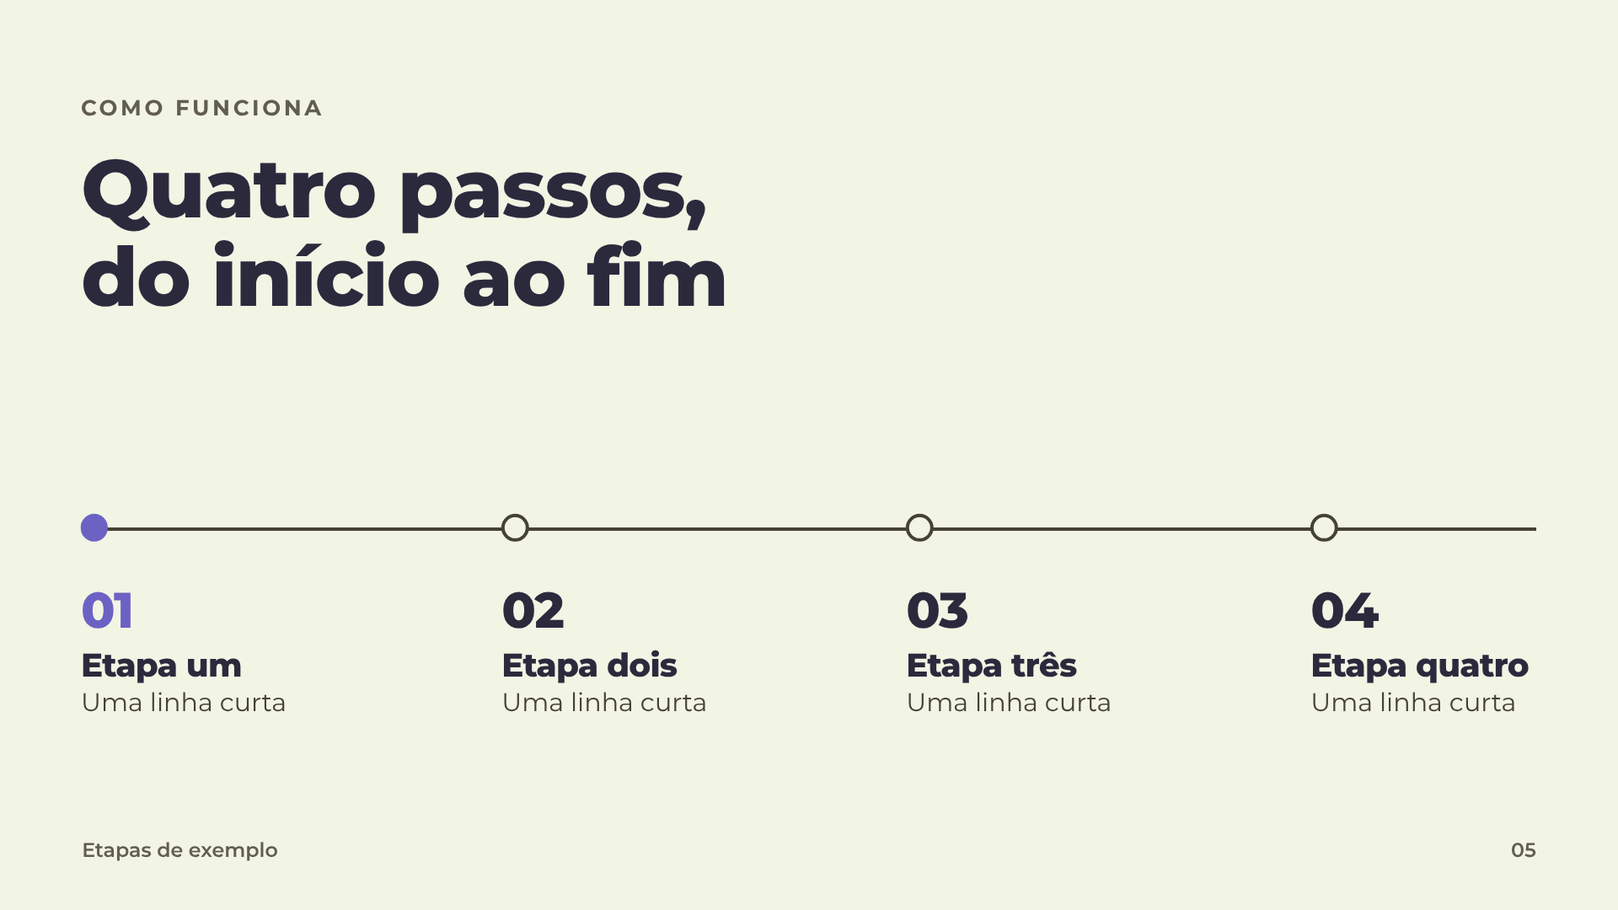
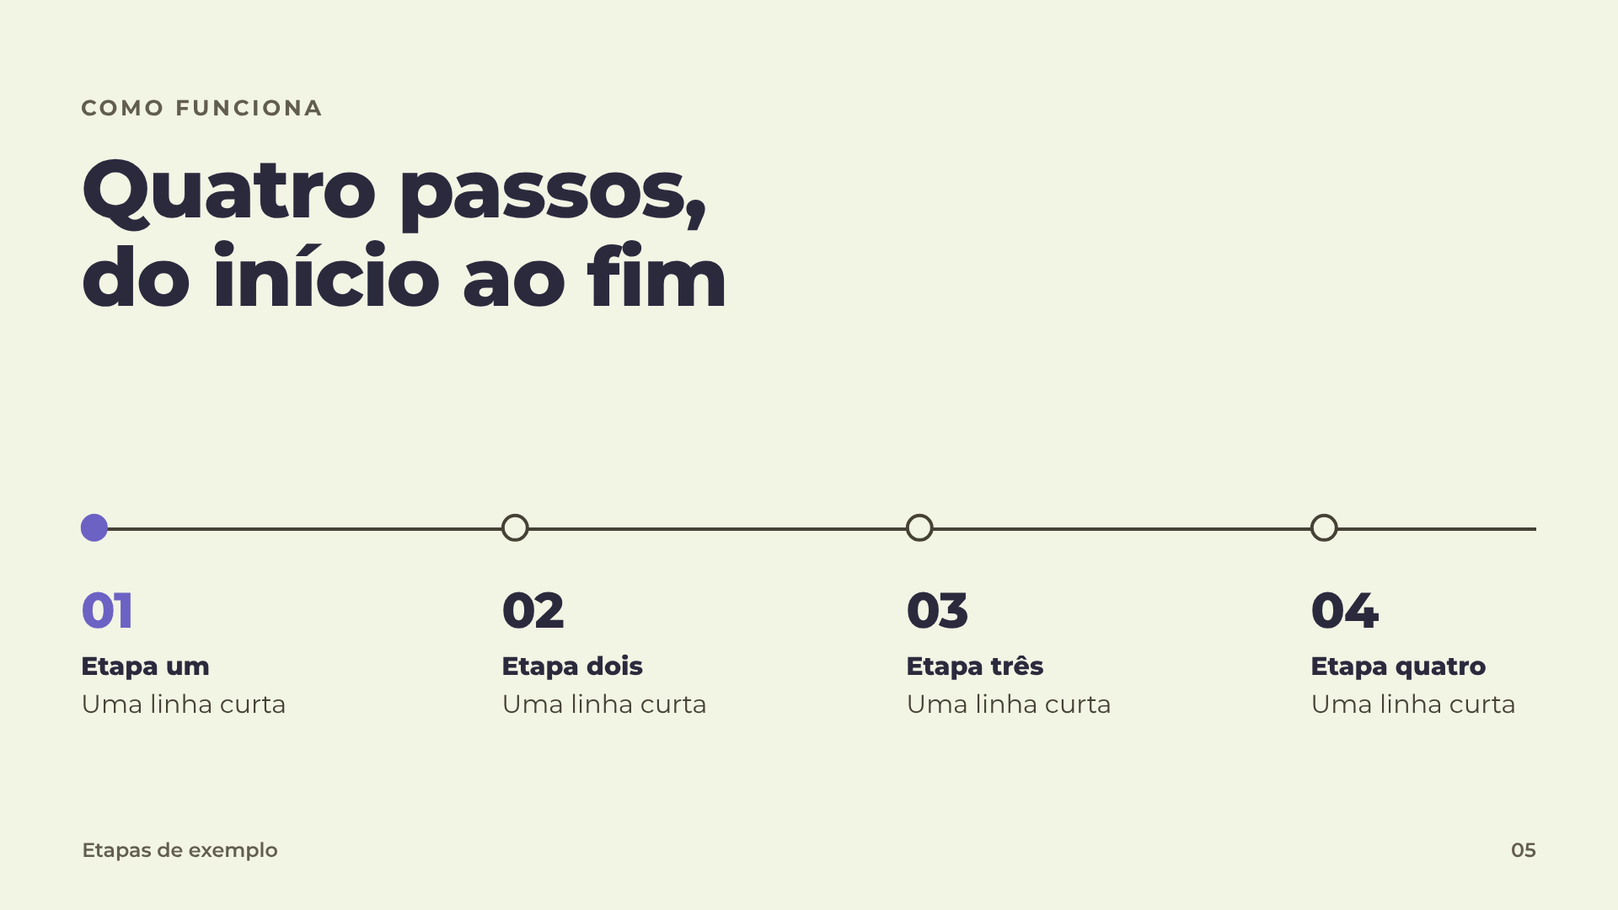
Fix the findings of the final review and add a mutation test for the validator
Claude-Session: https://claude.ai/code/session_01GoyHwdXjEJXTjCxK3apbTP

diff --git a/docs/composition/exemplars/src/pitch-deck.html b/docs/composition/exemplars/src/pitch-deck.html
@@ -62,10 +62,10 @@
   <div class="mark" style="left:calc(.31 * 1920px + 16px);top:calc(.58 * 1080px)"></div>
   <div class="mark" style="left:calc(.56 * 1920px + 16px);top:calc(.58 * 1080px)"></div>
   <div class="mark" style="left:calc(.81 * 1920px + 16px);top:calc(.58 * 1080px)"></div>
-  <div class="at" style="--x:.05;--y:.64;--w:.2"><div class="h2 accent">01</div><p class="h2" style="font-size:calc(var(--S) * .036);margin-top:10px">Etapa um</p><p class="body">Uma linha curta</p></div>
-  <div class="at" style="--x:.31;--y:.64;--w:.2"><div class="h2">02</div><p class="h2" style="font-size:calc(var(--S) * .036);margin-top:10px">Etapa dois</p><p class="body">Uma linha curta</p></div>
-  <div class="at" style="--x:.56;--y:.64;--w:.2"><div class="h2">03</div><p class="h2" style="font-size:calc(var(--S) * .036);margin-top:10px">Etapa três</p><p class="body">Uma linha curta</p></div>
-  <div class="at" style="--x:.81;--y:.64;--w:.15"><div class="h2">04</div><p class="h2" style="font-size:calc(var(--S) * .036);margin-top:10px">Etapa quatro</p><p class="body">Uma linha curta</p></div>
+  <div class="at" style="--x:.05;--y:.64;--w:.2"><div class="h2 accent">01</div><p class="body" style="font-weight:var(--rse-font-weight-extrabold);color:var(--rse-color-text-heading);margin-top:10px">Etapa um</p><p class="body">Uma linha curta</p></div>
+  <div class="at" style="--x:.31;--y:.64;--w:.2"><div class="h2">02</div><p class="body" style="font-weight:var(--rse-font-weight-extrabold);color:var(--rse-color-text-heading);margin-top:10px">Etapa dois</p><p class="body">Uma linha curta</p></div>
+  <div class="at" style="--x:.56;--y:.64;--w:.2"><div class="h2">03</div><p class="body" style="font-weight:var(--rse-font-weight-extrabold);color:var(--rse-color-text-heading);margin-top:10px">Etapa três</p><p class="body">Uma linha curta</p></div>
+  <div class="at" style="--x:.81;--y:.64;--w:.15"><div class="h2">04</div><p class="body" style="font-weight:var(--rse-font-weight-extrabold);color:var(--rse-color-text-heading);margin-top:10px">Etapa quatro</p><p class="body">Uma linha curta</p></div>
   <div class="folio"><span>Etapas de exemplo</span><span>05</span></div>
 </section>
 

diff --git a/DESIGN.md b/DESIGN.md
@@ -28,6 +28,7 @@ that are easiest to break by accident in a non-web piece:
 
 - Colours come from the palette in [brand.json](brand.json). On artwork you may use the `--rse-brand-*` palette directly (`AGENTS.md` keeps it off web components). Flat fields only: no gradients, no textures, no effects.
 - Montserrat only, weights 400–900. Headings 800, tight tracking. Eyebrows 700 uppercase, wide tracking. That is the only uppercase.
+- The brand purple is `--rse-color-primary`, never the mid `--rse-brand-purple` (3.3:1 with white).
 - The selo and the cube motif are official artwork in [assets/](assets/): never redraw, rotate, stretch or recolour outside the sanctioned combinations. One motif per composition. Wordmark files: purple on cream or white, white on purple, indigo or ink, black on the light accents.
 - No emoji, no hand-drawn icons, no stock or generated photography. Use a labelled placeholder that says what shot is needed.
 - Never invent Sesc facts (counts, addresses, fees, dates, quotes). Placeholders look like placeholders (`000`).
@@ -46,11 +47,14 @@ any unit.
 | --- | --- |
 | deck | [archetypes](docs/composition/archetypes.md), [modules](docs/composition/modules.md), [formats](docs/composition/formats.json), [exemplar](docs/composition/exemplars/institutional-deck.md) |
 | pitch | [archetypes](docs/composition/archetypes.md), [modules](docs/composition/modules.md), [formats](docs/composition/formats.json), [exemplar](docs/composition/exemplars/pitch-deck.md) |
-| report | [archetypes](docs/composition/archetypes.md), [modules](docs/composition/modules.md), [formats](docs/composition/formats.json), [exemplar](docs/composition/exemplars/institutional-deck.md) |
+| report | [archetypes](docs/composition/archetypes.md), [modules](docs/composition/modules.md), [formats](docs/composition/formats.json), [specimen sheet](docs/composition/exemplars/specimen-sheet.md) |
 | poster | [archetypes](docs/composition/archetypes.md), [formats](docs/composition/formats.json), [exemplar](docs/composition/exemplars/poster-a3.md), [patterns](assets/patterns/) |
 | social | [archetypes](docs/composition/archetypes.md), [formats](docs/composition/formats.json), [exemplar](docs/composition/exemplars/social-card.md), [motifs](assets/motifs/) |
 | one-pager | [archetypes](docs/composition/archetypes.md), [modules](docs/composition/modules.md), [formats](docs/composition/formats.json), [specimen sheet](docs/composition/exemplars/specimen-sheet.md) |
 | web page | [AGENTS.md](AGENTS.md#building-a-page), [recipes](docs/recipes.md), [components](docs/components.md) |
+
+No report exemplar exists yet: build the cover on the `report-cover` format and the pages on `print-a4`,
+from the same modules and archetypes the specimen sheet shows.
 
 The [specimen sheet](docs/composition/exemplars/specimen-sheet.md) shows every module and archetype on one image: look at it
 before you design anything. The exemplars are the quality bar, and each has a written spec for
@@ -65,18 +69,21 @@ data; it does not check your output. Check your output against the rubric.
 ## Fonts and fallbacks
 
 Montserrat ships as a variable font in [assets/fonts/](assets/fonts/) (`Montserrat-Variable.woff2`,
-weights 100–900). A browser uses that file directly. Most other stacks need a TTF: install
-Montserrat from Google Fonts (SIL Open Font License), or convert the shipped file, which is what a
-Python tool needs. With `pip install fonttools brotli`:
+weights 100–900). A browser uses that file directly. Most other stacks need static TTFs: install
+Montserrat from Google Fonts (SIL Open Font License), or make static weights from the shipped file.
+With `pip install fonttools brotli`:
 
 ```python
 from fontTools.ttLib import TTFont
-f = TTFont('assets/fonts/Montserrat-Variable.woff2'); f.flavor = None; f.save('Montserrat-Variable.ttf')
-# Pillow: font = ImageFont.truetype('Montserrat-Variable.ttf', size); font.set_variation_by_axes([800])
+from fontTools.varLib.instancer import instantiateVariableFont
+for weight, name in [(800, 'ExtraBold'), (700, 'Bold'), (400, 'Regular')]:
+    f = TTFont('assets/fonts/Montserrat-Variable.woff2'); f.flavor = None
+    instantiateVariableFont(f, {'wght': weight}, inplace=True); f.save(f'Montserrat-{name}.ttf')
 ```
 
-The last line picks the weight: 800 for headings, 700 for eyebrows, 400 for body. Embed or install the
-font wherever your stack allows. If your stack cannot embed it
+Use ExtraBold for headings, Bold for eyebrows and Regular for body. Do not use the unconverted variable
+file in a tool that ignores font variations: its default weight is 100, Thin, which is below the
+brand's floor of 400. Embed or install the fonts wherever your stack allows. If your stack cannot embed it
 (some PPTX and Figma paths), use Montserrat if it is installed on the viewer's machine, and
 otherwise a geometric sans with the same proportions, and **tell the user** the piece uses a
 stand-in so they can fix it. Never fall back to a serif or a condensed face.
@@ -94,7 +101,8 @@ exemplars do), so a printout cannot pass for the real thing.
 The repo ships no export tool; use what your stack has. A browser can screenshot a page or print it to
 PDF with one canvas per page (`@page` set to the canvas size). From Python, [docs/examples/social_post.py](docs/examples/social_post.py)
 writes an SVG, which `rsvg-convert`, Inkscape or `cairosvg` turn into a PNG; the official logos and
-motifs are plain polygons and paths, so you can also draw them yourself. Whatever you export, look at
+motifs are plain polygons and paths, so a stack with no SVG support can rasterise that path data
+unchanged. Whatever you export, look at
 the result before you hand it over.
 
 ## When asked for something the brand forbids

diff --git a/docs/composition/principles.md b/docs/composition/principles.md
@@ -22,14 +22,19 @@ How every piece for the Rede looks, whatever the stack or format. Numbers live i
 6. **The cube motif appears once, large, and cropped.** It bleeds off an edge at a scale that makes it
    architecture, not ornament, and it never sits behind text that must be read. The supplied cubes
    come in green, blue and pink: put a cube of one family on a field of another (green on purple or
-   cream, pink on blue or green, blue on orange), never on its own hue. *Generic:* small
+   cream, pink on blue, green or indigo, blue on orange), never on its own hue. The `BrandMotif`
+   component can derive purple, orange and yellow; say so when you use them. A composition is one
+   canvas, so a deck may use a different construction on each. *Generic:* small
    cubes scattered as bullets or dividers.
 7. **One hue per composition.** The page is cream (`--rse-color-surface-page` / `--rse-brand-cream`)
-   or white. A single band or accent takes one palette hue: brand purple or indigo with white text,
-   or a light or mid accent with ink text (`--rse-brand-ink`). Use the paired tint and its ink
+   or white. A single band or field takes one palette hue: the brand purple (`--rse-color-primary`)
+   or indigo with white text, or a light or mid accent with ink text (`--rse-brand-ink`). The
+   brand purple used as text or line colour (a big figure, a rule, a step number) is the brand
+   itself and does not count as a second hue. Use the paired tint and its ink
    (`--rse-color-tint-<hue>` with `-ink`) for small labels. These pairings are measured and gated by
-   the repo (ink on the light accents is 4.8–10:1). Never white on an accent, never a `-dark`
-   accent as a band. *Generic:* a rainbow of six hues across one slide.
+   the repo (ink on the light accents is 4.8–10:1). Never white on an accent, never the mid
+   `--rse-brand-purple` or any other `-dark` accent as a band (the primary purple is the one dark tone
+   that works). *Generic:* a rainbow of six hues across one slide.
 8. **Flat colour, honest edges.** Rectangles with square or token-radius corners, hairline rules, no
    shadows beyond the system's, no gradients, no textures. *Generic:* gradient banners and glow.
 9. **Numbers are the picture.** A figure set at display size, with a short label, is stronger than a
@@ -44,8 +49,9 @@ How every piece for the Rede looks, whatever the stack or format. Numbers live i
 12. **Set headlines tight, body loose.** Headlines at line-height 1.04–1.1 with tracking −0.02em
     (`--rse-letter-spacing-tight`); body at 1.5; eyebrows at +0.14em (`--rse-letter-spacing-eyebrow`).
     *Generic:* default line-height everywhere.
-13. **Cut copy before shrinking type.** If text overflows, shorten it to the format's
-    `maxWords` and `maxHeadlineChars`; do not reduce the type below `minText`.
+13. **Cut copy before shrinking type.** If text overflows, shorten it to the format's `maxWords` and
+    to `maxHeadlineChars` (headline at h1) or `maxDisplayChars` (headline at display), which hold about
+    three lines; do not reduce the type below `minText`.
 
 ## Reading order test
 

diff --git a/docs/composition/exemplars/institutional-deck.md b/docs/composition/exemplars/institutional-deck.md
@@ -14,7 +14,7 @@ close.
 - **Whitespace is a feature.** Most slides leave more than half the canvas empty. The pillars slide
   keeps its three columns low on the page so the headline has air above it.
 - **Colour changes the rhythm, not the story.** Cream, brand purple, indigo, yellow and a purple tint
-  alternate; each slide uses exactly one of them, always with the text colour its pairing allows:
+  alternate; each slide has one background hue (the closing slide adds one yellow band to cream), always with the text colour its pairing allows:
   white on purple and indigo, ink on yellow, tint-ink on the tint.
 - **The cube is architecture.** It appears twice, never together: large on the cover and cropped by
   the top-right corner on the section divider, with the text well clear of it.
@@ -41,7 +41,7 @@ close.
 
 - Format `slide-16x9`: 1920 × 1080, margin 9% of the short side (97 px), twelve columns.
 - Type at the format's fractions: display 0.14, h1 0.09, h2 0.055, body 0.028, caption 0.022.
-- Every slide is under 40 words and every headline under 60 characters (the validator checks it).
+- Every slide is under 40 words, every h1 headline under 60 characters and every display headline under 54 (the validator checks all three).
 
 ## Rubric
 
@@ -51,8 +51,8 @@ close.
 - R4: yes — at least a third of every canvas is empty and nothing sits inside the 5% safe margin
 - R5: yes — white on purple and indigo, ink on yellow and the tint-ink on the tint are all gated pairs; no white on an accent
 - R6: yes — one cube per slide where used (cover, divider), cropped, clear of the text
-- R7: yes — one band or accent hue per slide
-- R8: yes — each slide is at most 40 words, each headline at most 60 characters, nothing below 22 px (0.022 of the short side, above the 0.02 minimum)
+- R7: yes — one band or field hue per slide; the brand purple as text or line colour (slide 10's date, the pillar numbers) is the brand itself, not a second hue
+- R8: yes — each slide is at most 40 words, each headline within the format's limit, nothing below about 24 px (0.022 of the short side, above the 0.02 minimum)
 - R9: yes — flat fields, hairlines and the official artwork only
 - R10: yes — figures are `000`/`0000`/`00/00`, imagery is labelled slots and the placeholders are listed below
 - R11: yes — pt-BR, sentence case, no emoji, Montserrat only

diff --git a/docs/composition/exemplars/pitch-deck.md b/docs/composition/exemplars/pitch-deck.md
@@ -12,7 +12,7 @@ archetypes are new (process, evidence, data-table, contact).
 
 - **A pitch is an argument.** Each slide advances one step of it, and the two statement slides
   (problem, solution) sit on either side of the numbers so the claim and the answer are never
-  buried. The solution headline takes the brand purple, the one place colour carries meaning.
+  buried. The solution headline takes the brand purple, which marks the answer.
 - **The number is the picture.** "Por que agora" is a single figure at about 450 px with a label,
   not a chart; the chart appears only where the point is a trend, with direct labels and one series.
 - **One light hue.** Blue-light carries the cover, the "why now" figure and the closing band, always
@@ -38,7 +38,7 @@ archetypes are new (process, evidence, data-table, contact).
 
 - Format `slide-16x9`: 1920 × 1080, margin 97 px, twelve columns; type at display 0.14, h1 0.09,
   h2 0.055, body 0.028, caption 0.022 of the short side.
-- Every slide is under 40 words and every headline under 60 characters (checked by
+- Every slide is under 40 words, every h1 headline under 60 characters and every display headline under 54 (checked by
   `scripts/check-composition.mjs`).
 - One cube, on the cover, in pink on blue; no other slide has one.
 
@@ -50,8 +50,8 @@ archetypes are new (process, evidence, data-table, contact).
 - R4: yes — at least a third of every canvas is empty and everything sits inside the safe margin
 - R5: yes — ink on blue-light and cream, white-free accents, purple headline on cream is large text above 4.5:1
 - R6: yes — one cube, on the cover, cropped, clear of the headline
-- R7: yes — blue-light is the only band hue in the deck
-- R8: yes — at most 40 words and 60-character headlines per slide, nothing below 24 px
+- R7: yes — blue-light is the only band hue in the deck; the brand purple as text, rule or marker colour is the brand itself, not a second hue
+- R8: yes — at most 40 words and headlines within the format's limits on every slide, nothing below about 24 px
 - R9: yes — flat fields, hairlines and the official cube only
 - R10: yes — every figure is `00`/`000`/`00/00`, imagery is a labelled slot, placeholders are listed below
 - R11: yes — pt-BR, sentence case, no emoji, Montserrat only

diff --git a/docs/composition/exemplars/poster-a3.md b/docs/composition/exemplars/poster-a3.md
@@ -20,18 +20,18 @@ an A3 sheet, 297 × 420 mm). Source: [src/poster-a3.html](src/poster-a3.html). F
 
 ## Spec
 
-- Format `print-a3`: margin 8% of the short side (119 px), six columns.
+- Format `print-a3`: margin 8% of the short side (119 px), twelve columns, bleed 0.01 (3 mm, 15 px).
 - Type: display 0.12, h1 0.07, h2 0.04, body 0.02, caption 0.015 of the short side.
-- Under 60 words (it has about 16) and a headline under 50 characters (it has 30).
+- Under 60 words (it has about 16) and a display headline under 38 characters (it has 30).
 - Archetype: `cover`. One motif: `assets/motifs/cube-cube.svg`, official fills.
-- Print at 100% with background graphics on. For A4 reuse the same fractions on 210 mm.
+- This PNG is the trimmed size. For a print file extend the purple band and the cube 15 px past each edge, so a cut never leaves a white sliver. Print at 100% with background graphics on. For A4 reuse the same fractions on 210 mm.
 
 ## Rubric
 
 - R1: yes — the slogan reads first and the wordmark says who it is from
 - R2: yes — the headline is about 178 px against 30 px body copy, close to 6 to 1
 - R3: yes — one 119 px left margin; headline, deadline and address share it
-- R4: yes — more than a third of the sheet is empty, and all text is inside the safe area
+- R4: yes — more than a third of the sheet is empty; the text stays out of the safe-area band and only the band and the cube bleed into it
 - R5: yes — ink on cream and white on brand purple, both gated pairs
 - R6: yes — one cube, cropped, clear of all text
 - R7: yes — one band, brand purple, with white text

diff --git a/docs/composition/acceptance.md b/docs/composition/acceptance.md
@@ -36,7 +36,7 @@ rendering. The constraint was mine, to test the claim that the layer does not de
 **Stack the agent chose:** Python and Pillow, with a rasteriser the agent wrote for the logo and
 cube SVGs (no SVG library was installed).
 
-**Result:** a 1080 × 1350 PNG that holds up: ink on orange-light, official wordmark and cube-hollow
+**Result:** a 1080 × 1350 PNG that is on brand apart from the font: ink on orange-light, official wordmark and cube-hollow
 unmodified, headline at the format's size, everything inside the safe area, one cube cropped by the
 corner, placeholders flagged. One rubric item is only partly met: R11. The agent could not read the shipped WOFF2, used Inter as a
 stand-in and said so, which `DESIGN.md` and R11 allow, but the card is not set in Montserrat and its
@@ -64,4 +64,6 @@ headline wraps differently from the exemplar.
   hard-codes some sizes. It is existing code outside this change.
 - Run 1's agent did not run the repo's own check, and neither agent could measure contrast. Both are
   expected for a URL-only consumer: the rubric is meant to be applied by eye and by count.
+- The fixes in the table above were applied after the runs and not re-run with a fresh agent; only
+  the font recipe was checked by hand (it renders real Montserrat in Pillow).
 - Two runs are a small sample. The next real use of the layer is the better test.

diff --git a/docs/composition/modules.md b/docs/composition/modules.md
@@ -11,7 +11,7 @@ The eyebrow (Bold, uppercase, `eyebrow` size, `--rse-color-text-muted`) above an
 (`h1`, or `display` on a cover) in `--rse-color-text-heading`, with tight tracking and at most one
 line of support at `h2`–`body`. It is the first thing read on every canvas.
 Variants: stacked, oversized, numbered
-Fails when: the headline exceeds the format's `maxHeadlineChars`, runs past three lines, is centred
+Fails when: the headline exceeds the format's `maxHeadlineChars` (at h1) or `maxDisplayChars` (at display), runs past three lines, is centred
 on a multi-line block, or the eyebrow is not the only uppercase on the canvas.
 
 ## M-bignumber
@@ -85,9 +85,9 @@ used as a band.
 
 ## M-folio
 The quiet frame: page number and section at `caption`, the selo or wordmark in one corner, a source
-line where figures appear. It sits inside the format's `safeArea`.
+line where figures appear. It stays outside the format's `safeArea` band.
 Variants: minimal, sectioned, sourced
-Fails when: it is larger than `caption` size, the selo is below its minimum size (45 mm print,
+Fails when: it enters the `safeArea` band, it is larger than `caption` size, the selo is below its minimum size (45 mm print,
 150 px screen), it breaks the selo's clearspace, or it sits beside the Sesc signature.
 
 ## M-imageslot

diff --git a/docs/composition/archetypes.md b/docs/composition/archetypes.md
@@ -2,7 +2,7 @@
 
 An archetype is a composition of [modules](modules.md) on a grid. **Grid** gives regions as
 fractions of the canvas width × height, inside the format's `margin` (written *m*) and on its
-`gridColumns`. **Colour** names tokens from [brand.json](../../brand.json); *page* is
+`gridColumns`, which is twelve on every format. **Colour** names tokens from [brand.json](../../brand.json); *page* is
 `--rse-color-surface-page` (cream) and *band* is any one palette hue with ink text, or brand
 purple / indigo with white text. Nothing here is tied to a stack: translate the regions into
 whatever your tool uses.
@@ -116,6 +116,6 @@ Fails when: there are two asks, or the action has no concrete next step (a date,
 ## A-contact
 Who to talk to, and where.
 Modules: headline, list, folio
-Grid: headline columns 1–6 (y 0.25–0.45); contacts in columns 7–12 as a ruled list (y 0.25–0.75); selo at the bottom left with its clearspace.
+Grid: headline columns 1–6 (y 0.25–0.45); contacts in columns 7–12 as a ruled list (y 0.25–0.75); selo at the bottom left with its clearspace (a set may carry it on the cover and the closing canvases only).
 Colour: page.
 Fails when: the details are invented rather than flagged placeholders, or the Sesc signature sits next to the selo.

diff --git a/CHANGELOG.md b/CHANGELOG.md
@@ -19,9 +19,12 @@ a print pipeline), can now make non-web artwork that looks like the Rede.
   and a written spec and rubric result for agents that cannot see images.
 - **`brand.json`** gains `formats` and `composition`.
 - **`npm run check`** now runs `scripts/check-composition.mjs`: format invariants (scale jump of at
-  least 3:1, text above the minimum, safe area inside the margin), cross-references between the
-  docs, and the exemplars' own limits (words, headline length, one motif, no raw colour, no
-  gradient, no emoji). `scripts/render-exemplars.mjs` re-renders the images (author tool).
+  least 3:1, text above the minimum, safe area inside the margin, twelve columns, a print bleed),
+  cross-references between the docs including anchors, and the exemplars' own limits (words,
+  headline length at h1 and at display size, type roles, one motif, no raw colour, no gradient, no
+  emoji, `exemplar.css` in step with `formats.json`). `scripts/test-composition.mjs` plants 22 defects
+  in a scratch copy and requires the validator to catch each one. `scripts/render-exemplars.mjs`
+  re-renders the images (author tool).
 - `templates/institutional-deck/` is now labelled a working starter; the exemplars are the quality
   reference.
 

diff --git a/AGENTS.md b/AGENTS.md
@@ -120,7 +120,7 @@ docs/known-gaps.md        Open caveats to say out loud.
 docs/roadmap/             The assessment and the plan; read before improving the system itself.
 docs/                     Generated component + token references, recipes, authoring, QA checklist.
 scripts/                  build-tokens, build-icons, build-motifs, build-bundle, build-brand, gen-docs,
-                          build-showcase, check-ds, check-composition, render-exemplars (author tool),
+                          build-showcase, check-ds, check-composition (+ test-composition), render-exemplars (author tool),
                           audit (+ contrast-pairs), pack-static.
 rse.manifest.json         Machine index: components, the showcase card, templates, tokens, themes, fonts.
 assets/logos/             Official vector lockups (Rede + Sab.IA); originals in source/. Read its README.

diff --git a/docs/composition/exemplars/specimen-sheet.md b/docs/composition/exemplars/specimen-sheet.md
@@ -42,7 +42,7 @@ at a third of their size, and the 12 [modules](../modules.md) beneath them. Sour
 - R9: yes — flat fields and hairlines only
 - R10: yes — all figures are `000`/`0000`, every image slot names the shot, and the legend says so
 - R11: yes — copy is pt-BR sentence case, no emoji, Montserrat throughout
-- R12: yes — the wordmark appears only inside the cover and contact thumbnails, official files, unmodified, at 108 px high on a 1080 px slide with clear space
+- R12: yes — the wordmark appears in the cover and contact thumbnails and in the folio module tile, official files, unmodified, at 108 px high on a 1080 px slide with clear space
 
 ## Placeholders
 
